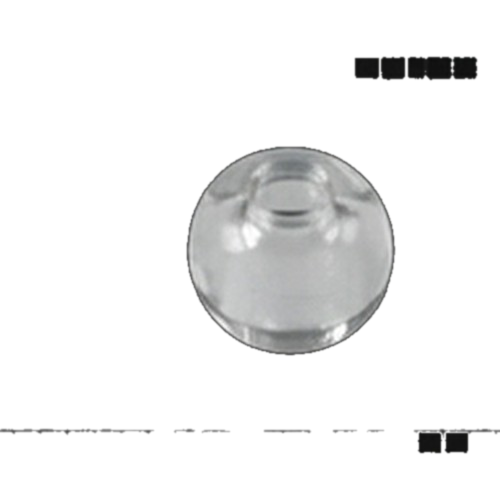
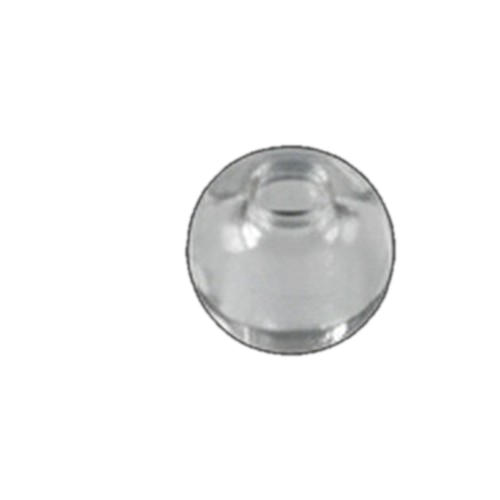
Rain trails/stalling, galileo layout, bowl picker + quantity, kaleidoscope cutouts
- rain: sliding drops now occasionally stall/peter out, and get pulled into
  nearby existing trails instead of always cutting a fresh line
- galileo: tightened the layout so the location note/flag/search no longer
  get pushed off the bottom of the screen on phones
- bowl: fixed the object picker thumbnails (were missing their styling) and
  added quantity — tap a thumbnail to cycle 0-4 of that item
- kaleidoscope: re-cropped the stained glass, glass, and three bead cutouts,
  which had lost most of their own interior or picked up stray artifacts
  from neighbouring objects/a ruler in the source photos

diff --git a/bowl/index.html b/bowl/index.html
@@ -58,12 +58,16 @@
   .pickerOverlay.open{ display:flex; }
   .pickerPopup{ background:#1c1712; border-radius:14px; padding:20px; box-shadow:0 12px 40px rgba(0,0,0,.5); }
   .pickerList{ display:grid; grid-template-columns:repeat(4,64px); gap:10px; }
-  .pickerOption{ width:64px; height:64px; border-radius:10px; border:2px solid transparent;
+  .pickerOption{ position:relative; width:64px; height:64px; border-radius:10px; border:2px solid transparent;
     background:#0f0d0a; padding:0; cursor:pointer; overflow:hidden; opacity:.4;
     transition:opacity .2s ease, border-color .2s ease; }
   .pickerOption.active{ opacity:1; border-color:#e8c383; }
   .pickerOption img{ width:100%; height:100%; object-fit:contain; padding:7px; box-sizing:border-box; display:block; }
   .pickerOption.bowlThumb img{ object-fit:cover; padding:0; }
+  .qtyBadge{ display:none; position:absolute; top:3px; right:3px; min-width:15px; height:15px; padding:0 3px;
+    border-radius:8px; background:#e8c383; color:#1c1712; font-size:10px; line-height:15px;
+    text-align:center; font-family:Georgia, serif; font-weight:bold; box-shadow:0 1px 3px rgba(0,0,0,.4); }
+  .qtyBadge.show{ display:block; }
 </style>
 </head>
 <body>
@@ -229,21 +233,22 @@
   // actual display size scales with the bowl's current on-screen size. Sized so a
   // rose reads as roughly a quarter of the bowl, other blooms and leaves scaled to
   // feel true to their real relative sizes. "weight" resists the current a little —
-  // a heavier bloom drifts less eagerly than a light petal. "on" is the default
-  // selection — a curated handful to start, with the rest available in the picker
-  // rather than everything crowding the bowl at once.
+  // a heavier bloom drifts less eagerly than a light petal. "count" is the default
+  // selection — a curated handful to start, with the rest available (and any of them
+  // repeatable) in the picker rather than everything crowding the bowl at once.
+  const KIND_MAX=4;
   const KINDS = [
-    {id:'camellia', img:'bowl-camellia.png', refLong:230, weight:1.05, on:true},
-    {id:'rose',     img:'bowl-rose.png',     refLong:260, weight:1.15, on:true},
-    {id:'ginkgo',   img:'bowl-ginkgo.png',   refLong:150, weight:0.85, on:true},
-    {id:'oakleaf',  img:'bowl-oakleaf.png',  refLong:130, weight:0.85, on:true},
-    {id:'fern',     img:'bowl-fern.png',     refLong:170, weight:0.75, on:true},
-    {id:'petal',    img:'bowl-petal.png',    refLong:110, weight:0.9,  on:true},
-    {id:'smallpetal',   img:'bowl-smallpetal.png',   refLong:70,  weight:0.95, on:false},
-    {id:'feather',      img:'bowl-feather.png',      refLong:190, weight:0.6,  on:false},
-    {id:'lavender',     img:'bowl-lavender.png',     refLong:170, weight:0.8,  on:false},
-    {id:'elderberries', img:'bowl-elderberries.png', refLong:190, weight:0.9,  on:false},
-    {id:'moss',         img:'bowl-moss.png',         refLong:200, weight:1.3,  on:false},
+    {id:'camellia', img:'bowl-camellia.png', refLong:230, weight:1.05, count:1},
+    {id:'rose',     img:'bowl-rose.png',     refLong:260, weight:1.15, count:1},
+    {id:'ginkgo',   img:'bowl-ginkgo.png',   refLong:150, weight:0.85, count:1},
+    {id:'oakleaf',  img:'bowl-oakleaf.png',  refLong:130, weight:0.85, count:1},
+    {id:'fern',     img:'bowl-fern.png',     refLong:170, weight:0.75, count:1},
+    {id:'petal',    img:'bowl-petal.png',    refLong:110, weight:0.9,  count:1},
+    {id:'smallpetal',   img:'bowl-smallpetal.png',   refLong:70,  weight:0.95, count:0},
+    {id:'feather',      img:'bowl-feather.png',      refLong:190, weight:0.6,  count:0},
+    {id:'lavender',     img:'bowl-lavender.png',     refLong:170, weight:0.8,  count:0},
+    {id:'elderberries', img:'bowl-elderberries.png', refLong:190, weight:0.9,  count:0},
+    {id:'moss',         img:'bowl-moss.png',         refLong:200, weight:1.3,  count:0},
   ];
   let kindImgs={};
   let objs=[];
@@ -261,15 +266,23 @@
       phase:Math.random()*100 };
   }
   function seedObjects(){
-    const on=KINDS.filter(k=>k.on);
-    objs = on.map((k,i)=>makeObj(k,i,on.length));
+    objs=[];
+    const total=KINDS.reduce((s,k)=>s+k.count,0);
+    let i=0;
+    KINDS.forEach(k=>{ for(let n=0;n<k.count;n++){ objs.push(makeObj(k,i,total)); i++; } });
   }
-  function setKindOn(id,on){
+  function setKindCount(id,count){
     const k=KINDS.find(k=>k.id===id);
-    if(!k || k.on===on) return;
-    k.on=on;
-    if(on) objs.push(makeObj(k,objs.length,objs.length+1));
-    else objs=objs.filter(o=>o.id!==id);
+    if(!k) return;
+    count=Math.max(0,Math.min(KIND_MAX,count));
+    if(k.count===count) return;
+    if(count>k.count){
+      for(let n=k.count;n<count;n++) objs.push(makeObj(k,objs.length,objs.length+1));
+    } else {
+      let toRemove=k.count-count;
+      for(let i=objs.length-1;i>=0 && toRemove>0;i--){ if(objs[i].id===id){ objs.splice(i,1); toRemove--; } }
+    }
+    k.count=count;
   }
 
   // ---------- picker overlay: choose which objects are in the bowl ----------
@@ -279,16 +292,19 @@
     objList.innerHTML='';
     KINDS.forEach(k=>{
       const btn=document.createElement('button');
-      btn.type='button'; btn.className='objOption'+(k.on?' active':'');
-      btn.setAttribute('aria-label', k.id);
-      btn.setAttribute('aria-pressed', k.on?'true':'false');
+      btn.type='button'; btn.className='pickerOption objOption'+(k.count>0?' active':'');
+      btn.setAttribute('aria-label', k.id+' — tap to add or cycle how many');
       const img=document.createElement('img'); img.src=k.img; img.alt='';
       btn.appendChild(img);
+      const badge=document.createElement('span'); badge.className='qtyBadge'+(k.count>0?' show':'');
+      badge.textContent=k.count;
+      btn.appendChild(badge);
       btn.addEventListener('click', ()=>{
-        const newOn=!k.on;
-        setKindOn(k.id,newOn);
-        btn.classList.toggle('active',newOn);
-        btn.setAttribute('aria-pressed', newOn?'true':'false');
+        const next=(k.count+1)%(KIND_MAX+1);
+        setKindCount(k.id,next);
+        btn.classList.toggle('active',next>0);
+        badge.textContent=next;
+        badge.classList.toggle('show',next>0);
       });
       objList.appendChild(btn);
     });

diff --git a/rain/index.html b/rain/index.html
@@ -120,9 +120,10 @@
     for(const d of drops){
       if(d.moving && d.vy>0.2){
         const w=d.r*0.72;
+        const x0=Math.min(d.px,d.x)-w, x1=Math.max(d.px,d.x)+w;
         glassCtx.save();
         glassCtx.beginPath();
-        glassCtx.rect(d.x-w, Math.min(d.py,d.y), w*2, Math.abs(d.y-d.py)+0.6);   // continuous track from last position to now
+        glassCtx.rect(x0, Math.min(d.py,d.y), x1-x0, Math.abs(d.y-d.py)+0.6);   // continuous track from last position to now
         glassCtx.ellipse(d.x,d.y,w,w*1.05,0,0,Math.PI*2);                         // rounded head
         glassCtx.clip();
         glassCtx.drawImage(bgCanvas,0,0,W,H);          // reveal the clear garden along the track
@@ -146,11 +147,14 @@
   // size breaks free at exactly the same instant and falls at exactly the same rate, which
   // reads as artificial lockstep rain rather than something falling naturally.
   function newDrop(x,y,r){
-    return { x,y,r, vy:0, moving:false, py:y,
+    return { x,y,r, vy:0, vx:0, moving:false, py:y, px:x,
       settle: 0.15+Math.random()*0.85,   // freshly landed drops sit visibly before they're even eligible to slide
       stick: 0.75+Math.random()*0.6,
       vmaxMul: 0.8+Math.random()*0.45 };
   }
+  // persistent streaks left on the glass by drops that have already run — lets a later
+  // drop find and get pulled into an already-wet channel instead of always cutting its own
+  let trails=[];
   // a raindrop lands somewhere on the glass and sticks where it hits;
   // occasionally a fatter one lands that will run before long
   function spawnDrop(){ const big=Math.random()<0.10; drops.push(newDrop(Math.random()*W, Math.random()*H, big?3.2+Math.random()*2.0:1.5+Math.random()*1.6)); }
@@ -178,25 +182,38 @@
       const pull = g*mass;                       // gravity pull grows with size
       const pinStatic = 1.6*d.r*d.stick;         // surface tension pins by contact width — breaks free at a realistic (smaller) size
       if(!d.moving && pull>pinStatic) d.moving=true;   // only breaks free once heavy enough
+      d.px=d.x;
       if(d.moving){
         const pinKinetic = 0.6*d.r*d.stick;      // weaker grip once it's sliding (hysteresis)
         d.vy += ((pull-pinKinetic)/mass)*dt*2.4;
         d.vy *= 0.94;
+        if(Math.random()<0.006*dt) d.vy *= 0.10+Math.random()*0.25;   // snags on a dry fleck of dust — real chance to stall below
         if(d.vy<0) d.vy=0;
         const vmax = DROP_VMAX*d.vmaxMul;
         if(d.vy>vmax) d.vy=vmax;
         d.py=d.y; d.y += d.vy*dt;                 // remember where it was, for a continuous trail
+        // an existing trail nearby gently pulls the drop sideways into it, like real rain
+        // finding an already-wet channel instead of every drop cutting its own straight line
+        let join=null, joinD=18;
+        for(const tr of trails){ if(tr.yBot<d.y-4 || tr.yTop>d.y+70) continue; const dx=Math.abs(tr.x-d.x); if(dx>1.2 && dx<joinD){ joinD=dx; join=tr; } }
+        if(join) d.vx += (join.x-d.x)*0.05*dt;
+        d.vx *= 0.9; d.x += d.vx*dt;
         if(d.vy>0.4) d.r=Math.max(2.6, d.r-0.006*dt);   // sheds slowly — stays visible leading its own trail
-        if(d.vy<0.06 && pull<=pinStatic){ d.moving=false; d.vy=0; }  // re-pins if it slows & is light
+        if(d.vy<0.06 && pull<=pinStatic){ d.moving=false; d.vy=0; d.vx=0; }  // re-pins if it slows & is light
+        // leaves its passage behind as a trail a later drop can find and join
+        let seg=trails.find(t=>Math.abs(t.x-d.x)<5 && d.y>=t.yTop-20 && d.py<=t.yBot+40);
+        if(seg){ seg.x=seg.x*0.75+d.x*0.25; seg.yTop=Math.min(seg.yTop,d.py); seg.yBot=Math.max(seg.yBot,d.y); seg.life=110; }
+        else trails.push({x:d.x, yTop:Math.min(d.py,d.y), yBot:Math.max(d.py,d.y), life:110});
       } else {                                    // stalled — condensation slowly feeds it
         d.vy=0; d.py=d.y; if(d.r<11) d.r += (0.0026 + 0.0016*tilt)*dt;  // gentle condensation; runs mostly triggered by rain landing & merging
       }
     }
+    trails=trails.filter(t=>(t.life-=dt)>0);
     // a moving drop swallows the beads it passes, growing and speeding on
     for(let i=0;i<drops.length;i++){ for(let j=drops.length-1;j>i;j--){ const a=drops[i],b=drops[j];
       if(Math.hypot(a.x-b.x,a.y-b.y) < (a.r+b.r)*0.95){ const R=Math.sqrt(a.r*a.r+b.r*b.r);   // merge as soon as they touch — no overlapping drops
-        a.x=(a.x*a.r+b.x*b.r)/(a.r+b.r); a.y=Math.max(a.y,b.y);
-        a.vy=(a.vy*a.r+b.vy*b.r)/(a.r+b.r); a.r=R; a.moving=a.moving||b.moving; drops.splice(j,1);} } }
+        a.x=(a.x*a.r+b.x*b.r)/(a.r+b.r); a.y=Math.max(a.y,b.y); a.px=a.x;
+        a.vy=(a.vy*a.r+b.vy*b.r)/(a.r+b.r); a.vx=(a.vx*a.r+b.vx*b.r)/(a.r+b.r); a.r=R; a.moving=a.moving||b.moving; drops.splice(j,1);} } }
     drops=drops.filter(d=>d.y-d.r<H+20);
   }
 

diff --git a/galileo/index.html b/galileo/index.html
@@ -46,13 +46,17 @@
     align-items:center;
     justify-content:center;
     padding:2vh 4vw;
-    gap:1.5vh;
+    gap:1.2vh;
   }
   #instrument-wrap{
     width:min(20vw, 190px);
-    height:min(88vh, 780px);
+    height:min(78vh, 720px);
     filter:drop-shadow(0 24px 46px rgba(0,0,0,.55));
   }
+  /* the flag and its note/search live in one tight cluster so a shown note doesn't add
+     a whole extra row of #stage's gap on top of its own height — keeps the bottom of the
+     control stack from getting pushed past the fold on shorter screens */
+  #loc-cluster{ display:flex; flex-direction:column; align-items:center; gap:2px; }
   #instrument-wrap svg{ width:100%; height:100%; overflow:visible; }
 
   .bulb-group{ transition: transform 1.4s cubic-bezier(.34,.1,.2,1); }
@@ -88,7 +92,7 @@
   #unit-toggle button.active{ color:var(--brass); }
   #unit-toggle .sep{ color:#5a4c38; }
   #loc-note{
-    display:none; margin-top:10px; font-size:12px; letter-spacing:.02em; color:#7a6b52;
+    display:none; font-size:12px; letter-spacing:.02em; color:#7a6b52;
     text-align:center; font-family:'Cormorant Garamond', serif;
   }
   #loc-note.visible{ display:block; }
@@ -123,7 +127,7 @@
   }
 
   @media (orientation:portrait){
-    #instrument-wrap{ width:min(52vw, 230px); height:min(80vh, 660px); }
+    #instrument-wrap{ width:min(52vw, 230px); height:min(66vh, 560px); }
   }
 </style>
 </head>
@@ -172,13 +176,14 @@
     <span class="sep">/</span>
     <button id="btn-f" aria-label="Fahrenheit">F</button>
   </div>
-  <div id="loc-note"><span id="loc-note-text">using an approximate location — check that your browser and device allow it, then</span> <button type="button" id="loc-retry">try again</button></div>
-
-  <button type="button" id="loc-flag" title="check another location" aria-label="check another location" aria-expanded="false">🚩</button>
-  <form id="loc-search" autocomplete="off">
-    <input type="text" id="loc-search-input" placeholder="postcode or city" aria-label="postcode or city">
-  </form>
-  <div id="loc-search-status"></div>
+  <div id="loc-cluster">
+    <div id="loc-note"><span id="loc-note-text">using an approximate location — check that your browser and device allow it, then</span> <button type="button" id="loc-retry">try again</button></div>
+    <button type="button" id="loc-flag" title="check another location" aria-label="check another location" aria-expanded="false">🚩</button>
+    <form id="loc-search" autocomplete="off">
+      <input type="text" id="loc-search-input" placeholder="postcode or city" aria-label="postcode or city">
+    </form>
+    <div id="loc-search-status"></div>
+  </div>
 </div>
 
 <script>
